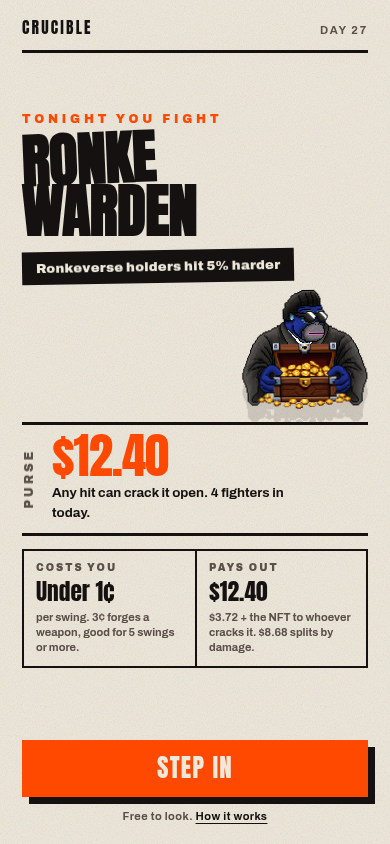
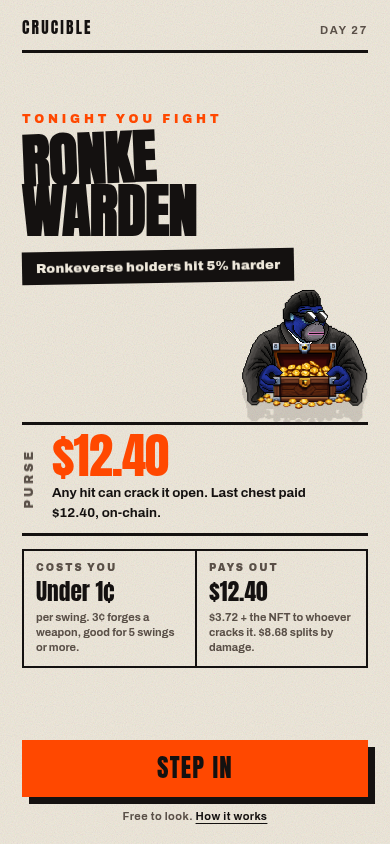
mockups: remove headcount (refuted), CTA + accent contrast fixes to WCAG AA

diff --git a/mockups/frontdoor/d-poster.html b/mockups/frontdoor/d-poster.html
@@ -11,11 +11,11 @@
 /* Direction D = B's poster language and tilt + C's itemised chest + a much larger Warden.
    The theme toggle is a REVIEW AFFORDANCE ONLY and would not ship. */
 :root[data-theme="bone"]{
-  --paper:#efe9dc; --ink:#141110; --ink2:#5a5048; --accent:#ff4800;
+  --paper:#efe9dc; --ink:#141110; --ink2:#5a5048; --accent:#ff4800; --accent-text:#C0360A;
   --rule:#141110; --disc-ink:#efe9dc; --shadow:rgba(20,17,16,.14);
 }
 :root[data-theme="ink"]{
-  --paper:#100d0b; --ink:#f4ede1; --ink2:#9a8d7d; --accent:#ff5a12;
+  --paper:#100d0b; --ink:#f4ede1; --ink2:#9a8d7d; --accent:#ff5a12; --accent-text:#ff5a12;
   --rule:#f4ede1; --disc-ink:#100d0b; --shadow:rgba(0,0,0,.55);
 }
 /* The community word carries that community's colour, WARDEN stays ink, so the
@@ -55,7 +55,7 @@ img{image-rendering:pixelated}
 .bout{display:grid;align-content:start;padding-top:12px}
 
 .tonight{font-size:clamp(10px,2.9vw,12px);font-weight:900;letter-spacing:.3em;
-  text-transform:uppercase;color:var(--accent)}
+  text-transform:uppercase;color:var(--accent-text)}
 
 .name{font-family:Anton,Impact,sans-serif;text-transform:uppercase;
   font-size:clamp(46px,14vw,150px);line-height:.84;letter-spacing:-.012em;margin-top:7px}
@@ -78,7 +78,7 @@ img{image-rendering:pixelated}
 .plab{font-size:clamp(10px,2.9vw,12px);font-weight:900;letter-spacing:.24em;
   text-transform:uppercase;color:var(--ink2)}
 .pfig{font-family:Anton,Impact,sans-serif;font-size:clamp(46px,13vw,116px);
-  line-height:.82;letter-spacing:-.02em;color:var(--accent);font-variant-numeric:tabular-nums}
+  line-height:.82;letter-spacing:-.02em;color:var(--accent-text);font-variant-numeric:tabular-nums}
 .pcond{font-size:clamp(12px,3.3vw,15px);font-weight:700;width:100%;margin-top:4px;line-height:1.4}
 
 /* ---- what is in it: print list with dotted leaders ---- */
@@ -98,7 +98,7 @@ img{image-rendering:pixelated}
 .priceline{display:flex;align-items:baseline;gap:9px;flex-wrap:wrap;margin-bottom:9px}
 .pl1{font-family:Anton,Impact,sans-serif;font-size:clamp(20px,5.6vw,38px);line-height:1}
 .pl2{font-size:clamp(11px,3.1vw,13px);font-weight:700;color:var(--ink2)}
-.enter{display:block;width:100%;border:0;cursor:pointer;background:var(--accent);color:#fff;
+.enter{display:block;width:100%;border:0;cursor:pointer;background:var(--accent);color:#1c0900;
   font-family:Anton,Impact,sans-serif;text-transform:uppercase;letter-spacing:.05em;
   font-size:clamp(22px,6.2vw,36px);padding:16px;line-height:1;
   box-shadow:7px 7px 0 var(--rule);
@@ -148,7 +148,7 @@ img{image-rendering:pixelated}
     <section class="purse">
       <span class="plab">Purse</span>
       <span class="pfig">$12.40</span>
-      <p class="pcond">Any hit can crack it open. Cracker takes the NFT + $3.72, the other $8.68 splits by damage. 4 fighters in today.</p>
+      <p class="pcond">Any hit can crack it open. Cracker takes the NFT + $3.72, the other $8.68 splits by damage.</p>
     </section>
 
     <section class="loot">

diff --git a/mockups/frontdoor/b-fightbill.html b/mockups/frontdoor/b-fightbill.html
@@ -78,7 +78,7 @@ img{image-rendering:pixelated}
 
 /* ---------- CTA ---------- */
 .foot{padding-top:13px}
-.enter{display:block;width:100%;border:0;cursor:pointer;background:var(--accent);color:var(--paper);
+.enter{display:block;width:100%;border:0;cursor:pointer;background:var(--accent);color:var(--ink);
   font-family:Anton,Impact,sans-serif;text-transform:uppercase;letter-spacing:.05em;
   font-size:clamp(22px,6.4vw,38px);padding:16px 18px;line-height:1;
   box-shadow:7px 7px 0 var(--ink);
@@ -135,7 +135,7 @@ img{image-rendering:pixelated}
       <div class="lab">Purse</div>
       <div>
         <div class="fig">$12.40</div>
-        <p class="cond">Any hit can crack it open. 4 fighters in today.</p>
+        <p class="cond">Any hit can crack it open. Last chest paid $12.40, on-chain.</p>
       </div>
     </section>
 
